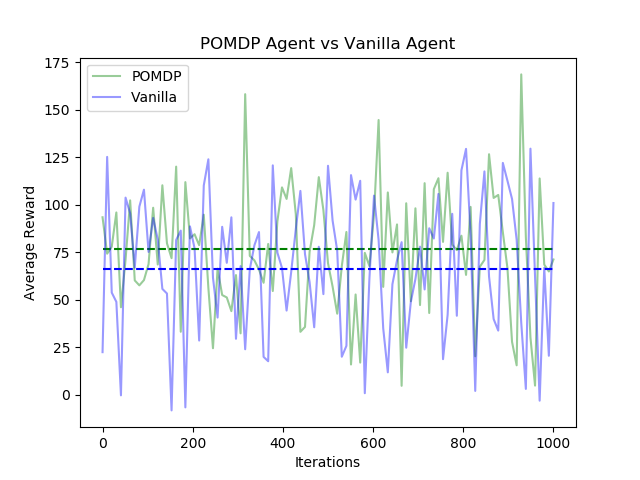
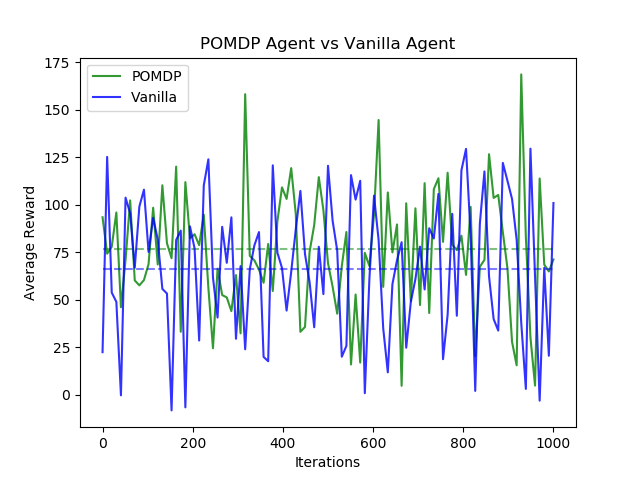
update stats

Changed region(s): [[0.1562, 0.1562, 0.875, 0.8438], [0.1562, 0.1562, 0.1875, 0.2188]]

diff --git a/results/sarsa_data/stats_generator.py b/results/sarsa_data/stats_generator.py
@@ -1,24 +1,28 @@
 import numpy as np
 import matplotlib.pyplot as plt
 
-fn1 = "sarsa_reward.txt"
-fn2 = "random_reward.txt"
-fn4 = "naive_sarsa_reward.txt"
+fn1 = "sarsa_reward_noXY.txt"
+fn2 = "sarsa_reward_3XY.txt"
+fn3 = "sarsa_reward_5X4Ys.txt"
+fn4 = "sarsa_reward_7X5Y.txt"
 
 x_length = 10000
 
 g1 = np.loadtxt(fn1)
 g2 = np.loadtxt(fn2)
+g3 = np.loadtxt(fn3)
 g4 = np.loadtxt(fn4)
 
 x = np.linspace(0, x_length, g1.shape[0]-1)
 
-plt.plot(x, g1[1:], label='Sarsa (optimized)', color="green")
-plt.plot(x, g4[1:], label='Sarsa (naive)', color="blue")
-plt.plot(x, g2[1:], label='Random', color="grey")
+plt.plot(x, g1[1:], label='1X1Y', color="green")
+plt.plot(x, g2[1:], label='3X1Y', color="blue")
+plt.plot(x, g3[1:], label='5X4Y', color="red")
+plt.plot(x, g4[1:], label='7X5Y', color="purple")
+
 plt.legend()
-plt.title("Acquired Rewards")
+plt.title("Comparison of State Discretization")
 plt.xlabel("Iterations")
 plt.ylabel("Average Reward")
 
-plt.savefig("fusion.png")
+plt.savefig("sarsa_discretization.png")

diff --git a/results/eval_data/stats_generator.py b/results/eval_data/stats_generator.py
@@ -11,14 +11,14 @@ g2 = np.loadtxt(fn2)
 
 x = np.linspace(0, x_length, g1.shape[0]-1)
 
-plt.plot(x, g1[1:], label='POMDP', color="green", alpha=0.4)
-plt.plot([0, x_length], [np.mean(g1), np.mean(g1)], '--', color="green")
-plt.plot(x, g2[1:], label='Vanilla', color="blue", alpha=0.4)
-plt.plot([0, x_length], [np.mean(g2), np.mean(g2)], '--', color="blue")
+plt.plot(x, g1[1:], label='POMDP', color="green", alpha=0.5)
+plt.plot([0, x_length], [np.mean(g1), np.mean(g1)], '--', color="green", alpha=0.8)
+plt.plot(x, g2[1:], label='Vanilla', color="blue", alpha=0.5)
+plt.plot([0, x_length], [np.mean(g2), np.mean(g2)], '--', color="blue", alpha=0.8)
 
 plt.legend()
 plt.title("POMDP Agent vs Vanilla Agent")
 plt.xlabel("Iterations")
 plt.ylabel("Average Reward")
 
-plt.savefig("fusion.png")
+plt.savefig("pomdp_vs_vanilla.png")

diff --git a/results/sarsa_data/trash/stats_generator.py b/results/sarsa_data/trash/stats_generator.py
@@ -1,0 +1,24 @@
+import numpy as np
+import matplotlib.pyplot as plt
+
+fn1 = "naive_sarsa_reward.txt"
+fn2 = "random_reward.txt"
+
+x_length = 1000
+
+g1 = np.loadtxt(fn1)
+g2 = np.loadtxt(fn2)
+
+x = np.linspace(0, x_length, g1.shape[0]-1)
+
+plt.plot(x, g1[1:], label='Naive Sarsa', color="green", alpha=1)
+plt.plot([0, x_length], [np.mean(g1), np.mean(g1)], '--', color="green", alpha=0.4)
+plt.plot(x, g2[1:], label='Random', color="blue", alpha=1)
+plt.plot([0, x_length], [np.mean(g2), np.mean(g2)], '--', color="blue", alpha=0.4)
+
+plt.legend()
+plt.title("Naive Sarsa Agent vs Random Agent")
+plt.xlabel("Iterations")
+plt.ylabel("Average Reward")
+
+plt.savefig("naive_vs_random.png")
